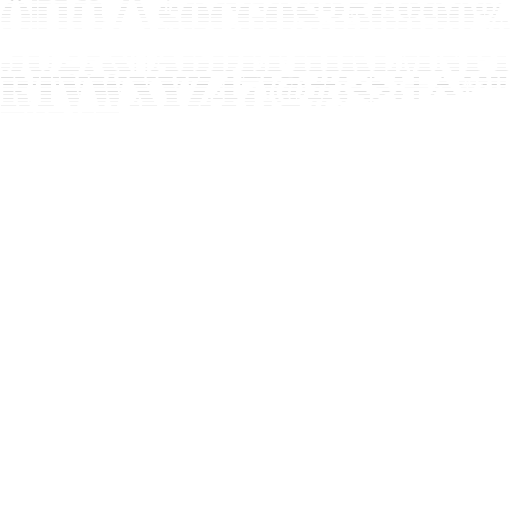
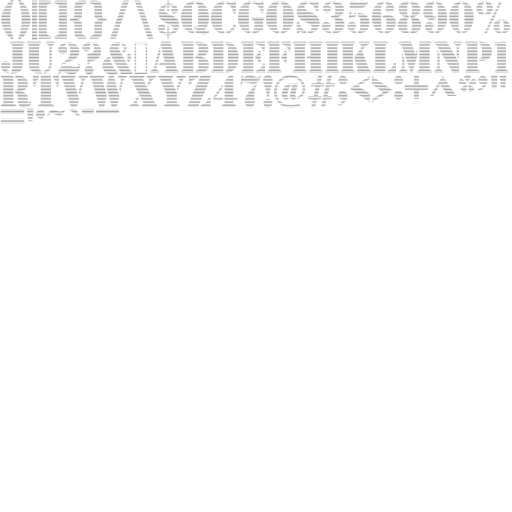
Working on HUD.

Changed region(s): [[0.0, 0.0, 1.0, 0.25]]

diff --git a/core/src/main/java/com/gadarts/industrial/systems/ui/HealthIndicator.java b/core/src/main/java/com/gadarts/industrial/systems/ui/HealthIndicator.java
@@ -4,17 +4,19 @@ import com.badlogic.gdx.graphics.Color;
 import com.badlogic.gdx.graphics.Texture;
 import com.badlogic.gdx.graphics.g2d.BitmapFont;
 import com.badlogic.gdx.graphics.g2d.GlyphLayout;
-import com.badlogic.gdx.math.Interpolation;
 import com.badlogic.gdx.math.MathUtils;
 import com.badlogic.gdx.scenes.scene2d.ui.Label;
 import com.badlogic.gdx.scenes.scene2d.ui.Table;
 import com.badlogic.gdx.scenes.scene2d.utils.TextureRegionDrawable;
 import com.badlogic.gdx.utils.Align;
+import com.badlogic.gdx.utils.Array;
 
 public class HealthIndicator extends Table {
 
 	public static final Color FONT_COLOR_HEALTHY = Color.valueOf("#48b416");
-	public static final Color FONT_COLOR_DEAD = Color.valueOf("#c81313");
+	public static final Color FONT_COLOR_DAMAGED = Color.valueOf("#bdc724");
+	public static final Color FONT_COLOR_DEAD = Color.valueOf("#d23333");
+	private static final Array<Color> colorScale = Array.with(FONT_COLOR_DEAD, FONT_COLOR_DAMAGED, FONT_COLOR_HEALTHY);
 	public static final float LABEL_PADDING_RIGHT = 25F;
 	private final HudHeart heart;
 	private final Label label;
@@ -35,13 +37,13 @@ public class HealthIndicator extends Table {
 
 	public void setValue(int hp, int originalValue) {
 		label.setText(hp);
-		float mappedValue = MathUtils.clamp((100f - hp) / 75f, 0F, 1f);
-		float r = Interpolation.linear.apply(FONT_COLOR_HEALTHY.r, FONT_COLOR_DEAD.r, mappedValue);
-		float g = Interpolation.linear.apply(FONT_COLOR_HEALTHY.g, FONT_COLOR_DEAD.g, mappedValue);
-		float b = Interpolation.linear.apply(FONT_COLOR_HEALTHY.b, FONT_COLOR_DEAD.b, mappedValue);
-		Color color = label.getColor();
-		color.set(r, g, b, 1F);
-		heart.updateAnimation(hp, originalValue, color);
+		Color color = label.getStyle().fontColor;
+		var selectedColor = colorScale.get(MathUtils.clamp(hp / 33, 0, colorScale.size - 1));
+		if (selectedColor.r != color.r || selectedColor.g != color.g || selectedColor.b != color.b) {
+			heart.setColor(selectedColor);
+		}
+		color.set(selectedColor.r, selectedColor.g, selectedColor.b, 1);
+		heart.updateAnimation(hp, originalValue);
 	}
 
 }

diff --git a/core/src/main/java/com/gadarts/industrial/DebugSettings.java b/core/src/main/java/com/gadarts/industrial/DebugSettings.java
@@ -1,7 +1,6 @@
 package com.gadarts.industrial;
 
 import static com.badlogic.gdx.Application.LOG_DEBUG;
-import static com.gadarts.industrial.systems.ui.menu.NewGameMenuOptions.OFFICE;
 
 public final class DebugSettings {
 	public static final boolean HIDE_GROUND = false;
@@ -15,8 +14,8 @@ public final class DebugSettings {
 	public static final boolean DISPLAY_CURSOR_POSITION = true;
 	public static final boolean SHOW_GL_PROFILING = true;
 	public static final boolean DISPLAY_HUD_OUTLINES = false;
-	public static final boolean MELODY_ENABLED = true;
-	public static final boolean SFX_ENABLED = true;
+	public static final boolean MELODY_ENABLED = false;
+	public static final boolean SFX_ENABLED = false;
 	public static final boolean FULL_SCREEN = false;
 	public static final boolean DISABLE_FRUSTUM_CULLING = false;
 	public static final int LOG_LEVEL = LOG_DEBUG;
@@ -29,6 +28,6 @@ public final class DebugSettings {
 	public static final boolean GOD_MODE = false;
 	public static final boolean ENEMY_INVULNERABLE = false;
 	public static final boolean SPACE_BAR_SKIPS_PLAYER = false;
-	public static final String TEST_LEVEL = OFFICE.name();
+	public static final String TEST_LEVEL = "enemy_test";
 	public static final boolean ALLOW_SCREEN_SHOT_OF_DEPTH_MAP = true;
 }

diff --git a/core/src/main/java/com/gadarts/industrial/systems/ui/HudHeart.java b/core/src/main/java/com/gadarts/industrial/systems/ui/HudHeart.java
@@ -19,7 +19,6 @@ public class HudHeart extends Image {
 	public static final float PADDING_RIGHT = 62F;
 	private final Array<RepeatAction> heartAnimationsArray;
 	private int updateHeartAnimation = -1;
-	private Color color;
 
 	public HudHeart(Texture heartTexture, Texture borderTexture, Color color) {
 		super(heartTexture);
@@ -79,7 +78,6 @@ public class HudHeart extends Image {
 		if (updateHeartAnimation >= 0) {
 			clearActions();
 			int i = updateHeartAnimation / healthDivisions();
-			setColor(color);
 			addAction(heartAnimationsArray.get(Math.min(i, heartAnimationsArray.size - 1)));
 			updateHeartAnimation = -1;
 		}
@@ -89,10 +87,9 @@ public class HudHeart extends Image {
 		return MAX_HEALTH / heartAnimationsArray.size + 1;
 	}
 
-	public void updateAnimation(int hp, int originalValue, Color color) {
+	public void updateAnimation(int hp, int originalValue) {
 		if (originalValue / healthDivisions() != hp / healthDivisions()) {
 			updateHeartAnimation = hp;
-			this.color = color;
 		}
 	}
 

diff --git a/core/src/main/java/com/gadarts/industrial/systems/ui/UserInterfaceSystem.java b/core/src/main/java/com/gadarts/industrial/systems/ui/UserInterfaceSystem.java
@@ -71,7 +71,6 @@ public class UserInterfaceSystem extends GameSystem<UserInterfaceSystemEventsSub
 	private ToolTipHandler toolTipHandler;
 	private HealthIndicator healthIndicator;
 	private DamageIndicator damageIndicator;
-	private GameStage stage;
 
 	public UserInterfaceSystem(GameAssetManager assetsManager,
 							   GameLifeCycleHandler lifeCycleHandler) {
@@ -91,7 +90,7 @@ public class UserInterfaceSystem extends GameSystem<UserInterfaceSystemEventsSub
 	@Override
 	public void onSystemReset(SystemsCommonData systemsCommonData) {
 		super.onSystemReset(systemsCommonData);
-		stage = addUiStage();
+		GameStage stage = addUiStage();
 		damageIndicator = new DamageIndicator(stage, getAssetsManager());
 		Table hudTable = addTable();
 		hudTable.setName(TABLE_NAME_HUD);
@@ -303,7 +302,6 @@ public class UserInterfaceSystem extends GameSystem<UserInterfaceSystemEventsSub
 	public void dispose( ) {
 		cursorHandler.dispose();
 		toolTipHandler.dispose();
-		stage.dispose();
 	}
 
 }
